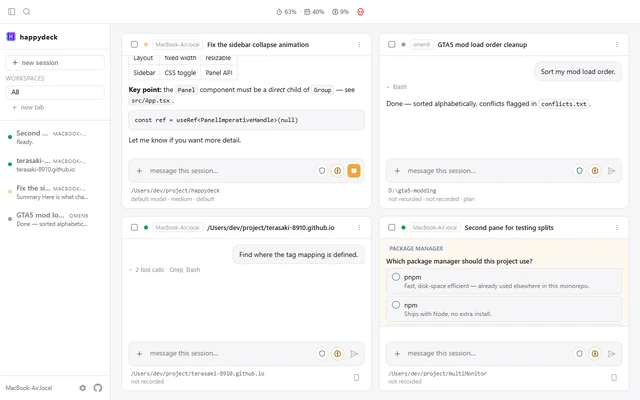
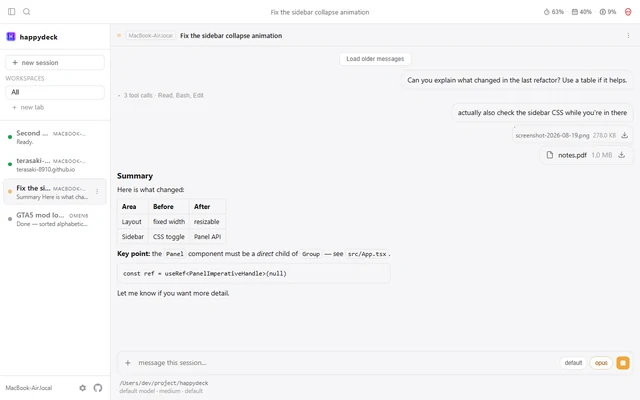
feat(career): 15回目の答えを入れる(画像はAに決定・押すと大きく見られる・並べ方は2案、見出し、期間の文字は黒で縦線はピンク、トップの文章も黒、「奢」は Klee One)
- 画像の見せ方は A(ブロックの影)に決め、B・C を外した。押すと大きく出し、外側・Esc・× で閉じる(カーソルは虫眼鏡)。
- 1作品に何枚でも置けるように shots(配列)にした。並べ方は /career/?layout=side で右の列に積む案を見比べられる。
- happydeck の画像は、1つのセッションを大きく出した画面にした(14回目 R14-33)。
- 見出しを「取り組んでいる研究」にした(R15-3)。期間の文字は黒、縦線はピンク(R15-7)。トップの文章も黒(R15-6)。
- 「奢」だけ Klee One の字を使う(R15-8)。用語の吹き出しは、語から吹き出しへマウスを移しても閉じない。リンクも出せる。
- 14回目で決まった Python・SPARQL の説明を入れた(R14-14・R14-15)。

Claude-Session: https://claude.ai/code/session_01YNehZWCWdDkW7M1R4WgCfg

diff --git a/src/CareerPage.jsx b/src/CareerPage.jsx
@@ -1,4 +1,4 @@
-import { useEffect, useState } from 'react'
+import { useCallback, useEffect, useRef, useState } from 'react'
 import ProjectMenu from './components/ProjectMenu'
 import { annotate } from './components/career/Term'
 import './components/career/career.css'
@@ -77,11 +77,12 @@ function Section({ title, children }) {
   )
 }
 
-// トップの学歴・経歴と同じ部品(ピンクの等幅の期間、見出し、説明、左の縦線)
+// トップの学歴・経歴と同じ部品(等幅の期間、見出し、説明、左の縦線)。
+// 期間の文字は黒、縦線はピンク(確認シート15回目 R15-7。ピンクの文字は黄色の地で読みにくいため)
 function Entry({ label, title, children }) {
   return (
-    <div className="relative pl-6 border-l border-line">
-      {label && <div className="text-sm font-mono text-accent">{label}</div>}
+    <div className="relative pl-6 border-l-2 border-accent">
+      {label && <div className="text-sm font-mono text-ink">{label}</div>}
       <h3 className="text-xl font-display text-ink mt-2">{title}</h3>
       {children}
     </div>
@@ -109,11 +110,42 @@ function WorkFact({ term, children }) {
   )
 }
 
-// プロジェクトの画像の見せ方(3案の見本)。/career/?frame=mat のように切り替えて見比べる。決まったら1つにする
-const FRAMES = ['block', 'mat', 'soft']
-function frameFromUrl() {
-  const asked = new URLSearchParams(window.location.search).get('frame')
-  return FRAMES.includes(asked) ? asked : FRAMES[0]
+// プロジェクトの画像の並べ方(2案の見本)。/career/?layout=side で切り替えて見比べる。決まったら1つにする
+const LAYOUTS = ['stack', 'side']
+function layoutFromUrl() {
+  const asked = new URLSearchParams(window.location.search).get('layout')
+  return LAYOUTS.includes(asked) ? asked : LAYOUTS[0]
+}
+
+// 画像を大きく見る。外側・Esc・× で閉じ、閉じたら押した画像にフォーカスを戻す。開いている間は後ろをスクロールしない
+function ShotViewer({ shot, onClose }) {
+  const closeRef = useRef(null)
+  useEffect(() => {
+    if (!shot) return undefined
+    const before = document.activeElement
+    const html = document.documentElement
+    const overflow = html.style.overflow
+    html.style.overflow = 'hidden'
+    closeRef.current?.focus()
+    const onKey = (event) => {
+      if (event.key === 'Escape') onClose()
+    }
+    document.addEventListener('keydown', onKey)
+    return () => {
+      document.removeEventListener('keydown', onKey)
+      html.style.overflow = overflow
+      before?.focus?.()
+    }
+  }, [shot, onClose])
+  if (!shot) return null
+  return (
+    <div className="shot-viewer" role="dialog" aria-modal="true" aria-label={shot.alt} onClick={onClose}>
+      <img src={shot.full || shot.src} alt={shot.alt} onClick={(event) => event.stopPropagation()} />
+      <button ref={closeRef} type="button" className="shot-viewer__close" aria-label="閉じる" onClick={onClose}>
+        ×
+      </button>
+    </div>
+  )
 }
 
 export default function CareerPage() {
@@ -126,7 +158,9 @@ export default function CareerPage() {
     ...level,
     items: skills.filter((skill) => skill.group === 'other' && skill.level === level.id),
   })).filter((level) => level.items.length > 0)
-  const frame = frameFromUrl()
+  const layout = layoutFromUrl()
+  const [viewing, setViewing] = useState(null)
+  const closeViewer = useCallback(() => setViewing(null), [])
   return (
     <>
       <div className="fixed top-0 left-0 right-0 z-50">
@@ -180,7 +214,7 @@ export default function CareerPage() {
             </div>
           </Section>
 
-          <Section title="研究">
+          <Section title="取り組んでいる研究">
             <p className="text-lg text-ink leading-relaxed">{annotate(research.summary, seenResearch)}</p>
             <div className="space-y-6 mt-10">
               {research.talks.map((talk) => (
@@ -227,9 +261,10 @@ export default function CareerPage() {
           </Section>
 
           <Section title="プロジェクト">
-            <div className="works space-y-12" data-frame={frame}>
+            <div className="works space-y-12" data-layout={layout}>
               {works.map((work) => (
-                <article key={work.repo} className="relative pl-6 border-l border-line">
+                <article key={work.repo} className="work relative pl-6 border-l border-line">
+                  <div className="work__head">
                   <h3 className="text-xl font-display text-ink">
                     <a
                       href={GITHUB + work.repo}
@@ -241,12 +276,17 @@ export default function CareerPage() {
                     </a>
                   </h3>
                   <p className="mt-1 text-xs font-mono text-muted">github.com/terasaki-8910/{work.repo}</p>
-                  {work.shot && (
-                    <div className="work-shot">
-                      <img src={work.shot.src} width={work.shot.width} height={work.shot.height} alt={work.shot.alt} loading="lazy" decoding="async" />
+                  </div>
+                  {work.shots?.length > 0 && (
+                    <div className="work-shots">
+                      {work.shots.map((shot) => (
+                        <button key={shot.src} type="button" className="work-shot" aria-label={`${shot.alt}を大きく見る`} onClick={() => setViewing(shot)}>
+                          <img src={shot.src} width={shot.width} height={shot.height} alt={shot.alt} loading="lazy" decoding="async" />
+                        </button>
+                      ))}
                     </div>
                   )}
-                  <dl className="mt-4 grid gap-x-6 gap-y-3 sm:grid-cols-[6.5em_minmax(0,1fr)]">
+                  <dl className="work__facts mt-4 grid gap-x-6 gap-y-3 sm:grid-cols-[6.5em_minmax(0,1fr)]">
                     <WorkFact term="概要">{work.summary}</WorkFact>
                     {work.background && <WorkFact term="作った経緯">{work.background}</WorkFact>}
                     <WorkFact term="担当">{work.role}</WorkFact>
@@ -275,6 +315,7 @@ export default function CareerPage() {
           )}
         </div>
       </main>
+      <ShotViewer shot={viewing} onClose={closeViewer} />
     </>
   )
 }

diff --git a/src/components/career/career.css b/src/components/career/career.css
@@ -18,20 +18,47 @@
   font-size: 14px; line-height: 1.6; text-align: left; white-space: normal; overflow-wrap: anywhere;
   box-shadow: 0 6px 18px rgb(0 0 0 / 0.18);
 }
+.term__note::before { content: ''; position: absolute; left: 0; right: 0; top: -10px; height: 10px; }
+.term__link { display: block; margin-top: 4px; color: var(--color-paper); text-decoration: underline; text-underline-offset: 3px; overflow-wrap: anywhere; }
+.term__link:focus-visible { outline: 2px solid var(--color-paper); outline-offset: 2px; }
 
 /* プロジェクトの画面のスクショ。どれも同じ高さにそろえ、幅は画像の縦横比に任せる。
-   見せ方は3案(data-frame)。見本では /career/?frame=block|mat|soft で切り替えられる */
+   見せ方は A(ブロックの影)に決めた(確認シート15回目 R15-1)。黒い枠とピンクのずらした影(ぼかさない)で、
+   ロゴ(ピンクに黒の縁)と背景のマスに合わせる。押すと大きく出す(R15-2。カーソルは虫眼鏡)。
+   並べ方は2案(data-layout)。stack = 題の下に横に並べる、side = PC では右の列に縦に積み、左に説明を置く。
+   見本では /career/?layout=side で切り替えられる(決まったら1つにする) */
 .works { --shot-h: 180px; --shot-mat: rgb(255 255 255 / 0.55); }
 :root[data-theme='dark'] .works { --shot-mat: rgb(255 255 255 / 0.06); }
 @media (max-width: 639px) { .works { --shot-h: 140px; } }
-.work-shot { display: inline-block; margin-top: 1rem; line-height: 0; }
+.work-shots { display: flex; flex-wrap: wrap; gap: 16px; margin-top: 1rem; }
+.work-shot {
+  display: inline-block; line-height: 0; cursor: zoom-in; font: inherit; color: inherit;
+  padding: 8px; background: var(--shot-mat); border: 1.5px solid var(--color-ink); border-radius: 3px;
+  box-shadow: 6px 6px 0 rgb(var(--color-accent));
+}
+.work-shot:focus-visible { outline: 2px solid var(--color-ink); outline-offset: 4px; }
 .work-shot img { display: block; height: var(--shot-h); width: auto; max-width: 100%; object-fit: contain; }
-/* A: ブロックの影。黒い枠とピンクのずらした影(ぼかさない)。ロゴ(ピンクに黒の縁)と背景のマスに合わせる */
-.works[data-frame='block'] .work-shot { padding: 8px; background: var(--shot-mat); border: 1.5px solid var(--color-ink); border-radius: 3px; box-shadow: 6px 6px 0 rgb(var(--color-accent)); }
-/* B: 台紙。うすい白の台に細い線の枠。影は付けない */
-.works[data-frame='mat'] .work-shot { padding: 10px; background: var(--shot-mat); border: 1px solid var(--color-line); border-radius: 4px; }
-/* C: やわらかい影。枠を付けず、画面の下にぼかした影だけを落とす */
-.works[data-frame='soft'] .work-shot img { border-radius: 6px; box-shadow: 0 10px 24px rgb(0 0 0 / 0.18), 0 2px 6px rgb(0 0 0 / 0.08); }
+@media (min-width: 768px) {
+  .works[data-layout='side'] { --shot-h: 150px; }
+  .works[data-layout='side'] .work { display: grid; grid-template-columns: minmax(0, 1fr) auto; column-gap: 28px; }
+  .works[data-layout='side'] .work__head { grid-column: 1 / -1; }
+  .works[data-layout='side'] .work-shots { grid-column: 2; grid-row: 2; flex-direction: column; align-items: flex-end; align-self: start; margin-top: 1rem; }
+  .works[data-layout='side'] .work__facts { grid-column: 1; grid-row: 2; }
+}
+
+/* 画像を大きく見る(外側・Esc・× で閉じる) */
+.shot-viewer {
+  position: fixed; inset: 0; z-index: 100; display: grid; place-items: center;
+  padding: calc(64px + env(safe-area-inset-top, 0px)) 16px calc(24px + env(safe-area-inset-bottom, 0px));
+  background: rgb(0 0 0 / 0.72); cursor: zoom-out;
+}
+.shot-viewer img { max-width: min(1280px, 100%); max-height: 100%; width: auto; height: auto; border-radius: 4px; cursor: default; box-shadow: 0 12px 40px rgb(0 0 0 / 0.4); }
+.shot-viewer__close {
+  position: fixed; top: calc(12px + env(safe-area-inset-top, 0px)); right: 12px; width: 44px; height: 44px;
+  display: grid; place-items: center; border-radius: 50%; cursor: pointer; font-size: 22px; line-height: 1;
+  background: var(--color-paper); color: var(--color-ink); border: 1.5px solid var(--color-ink);
+}
+.shot-viewer__close:focus-visible { outline: 2px solid var(--color-paper); outline-offset: 2px; }
 
 /* 名前の読み仮名 */
 .name-ruby { ruby-align: center; }

diff --git a/src/data/works.js b/src/data/works.js
@@ -1,6 +1,7 @@
 // /career/ の Works。文言は decisions(タスク 5「Works の文言」)のとおり。
 // points は decisions の「工夫」を「／」で区切ったもの(ページでは1つずつ別の行にする)。
-// shot: 実際に動いている画面のスクショ(public/career/works/)。ページではどれも同じ高さにそろえる。
+// shots: 実際に動いている画面のスクショ(public/career/works/)。何枚でも置ける。ページではどれも同じ高さにそろえ、
+// 押すと full を大きく出す(確認シート15回目 R15-2)。
 // このサイトは画面を載せても意味が無いので、画像なし(確認シート14回目)。
 // background(作った経緯)と learned(学び)は本人が書く。空なら行を出さない。
 // role の書き方(Claude Code を使ったこと)は下書き(確認シート14回目)。
@@ -22,7 +23,8 @@ export const works = [
     repo: 'happydeck',
     summary: '複数のマシンで動いている Claude Code のセッションを、1つの画面で見て操作するデスクトップアプリ（Happy 経由）',
     role: '個人で設計・実装（Claude Code を使用）',
-    shot: { src: '/career/works/happydeck.webp', width: 640, height: 400, alt: 'happydeck の画面（モックデータで、複数のマシンのセッションを並べたところ）' },
+    // 1つのセッションを大きく出した画面(確認シート14回目 R14-33)
+    shots: [{ src: '/career/works/happydeck.webp', full: '/career/works/happydeck-full.webp', width: 640, height: 400, alt: 'happydeck の画面（モックデータで、1つのセッションを大きく出したところ）' }],
     background: '',
     learned: '',
     tech: 'TypeScript, React 19, Vite, Tauri v2, Zod, Vitest, GitHub Actions',
@@ -36,7 +38,7 @@ export const works = [
     repo: 'voice-transcript',
     summary: 'Groq の Whisper API で音声を文字起こしする、CLI とデスクトップアプリ',
     role: '個人で設計・実装（Claude Code を使用）',
-    shot: { src: '/career/works/voice-transcript.webp', width: 601, height: 400, alt: 'voice-transcript の履歴の画面' },
+    shots: [{ src: '/career/works/voice-transcript.webp', full: '/career/works/voice-transcript-full.webp', width: 601, height: 400, alt: 'voice-transcript の履歴の画面' }],
     background: '',
     learned: '',
     tech: 'TypeScript, React 19, Vite, Tauri v2, PostgreSQL, Drizzle ORM, ffmpeg, Vitest',
@@ -50,7 +52,7 @@ export const works = [
     repo: 'claude-usage-tray',
     summary: 'Claude の使用量（5時間のセッション枠と週の枠）を、タスクトレイとメニューバーに常に表示するデスクトップアプリ',
     role: '個人で設計・実装・配布（Windows / macOS。Claude Code を使用）',
-    shot: { src: '/career/works/claude-usage-tray.webp', width: 304, height: 367, alt: 'UsageTray のポップアップ（使用量の表示）' },
+    shots: [{ src: '/career/works/claude-usage-tray.webp', full: '/career/works/claude-usage-tray-full.webp', width: 304, height: 367, alt: 'UsageTray のポップアップ（使用量の表示）' }],
     background: '',
     learned: '',
     tech: 'TypeScript, Electron, electron-vite, Preact, node-pty, Vitest, GitHub Actions',

diff --git a/src/components/career/Term.jsx b/src/components/career/Term.jsx
@@ -11,7 +11,7 @@ const canHover = () => typeof window !== 'undefined' && window.matchMedia && win
  * 語は span(role="button")にして、英語の語も文の中でふつうに折り返せるようにする(button だと折り返さない)。
  * 吹き出しは語の終わり(アイコンの下)に付け、画面の端からはみ出す分だけ横にずらす。
  */
-export default function Term({ children, note }) {
+export default function Term({ children, note, link }) {
   const [open, setOpen] = useState(false)
   const [shift, setShift] = useState(0)
   const id = useId()
@@ -19,6 +19,8 @@ export default function Term({ children, note }) {
   const noteRef = useRef(null)
   const hoverRef = useRef(false)
   const pinnedRef = useRef(false)
+  // マウスが語から吹き出しへ移る間に閉じないよう、閉じるのを少し待つ
+  const leaveTimer = useRef(0)
 
   const close = () => {
     pinnedRef.current = false
@@ -62,12 +64,16 @@ export default function Term({ children, note }) {
       className="term"
       onMouseEnter={() => {
         if (!canHover()) return
+        window.clearTimeout(leaveTimer.current)
         hoverRef.current = true
         setOpen(true)
       }}
       onMouseLeave={() => {
         hoverRef.current = false
-        if (!pinnedRef.current) setOpen(false)
+        window.clearTimeout(leaveTimer.current)
+        leaveTimer.current = window.setTimeout(() => {
+          if (!pinnedRef.current && !hoverRef.current) setOpen(false)
+        }, 150)
       }}
     >
       <span
@@ -95,6 +101,11 @@ export default function Term({ children, note }) {
         {open && (
           <span ref={noteRef} id={id} role="tooltip" className="term__note" style={shift ? { transform: `translateX(${shift}px)` } : undefined}>
             {note}
+            {link && (
+              <a className="term__link" href={link} target="_blank" rel="noopener noreferrer">
+                {new URL(link).host}
+              </a>
+            )}
           </span>
         )}
       </span>
@@ -121,7 +132,7 @@ export function annotate(text, seen) {
     if (!best) break
     parts.push(rest.slice(0, best.at))
     parts.push(
-      <Term key={best.entry.id} note={best.entry.note}>
+      <Term key={best.entry.id} note={best.entry.note} link={best.entry.link}>
         {best.word}
       </Term>,
     )

diff --git a/src/components/Profile.jsx b/src/components/Profile.jsx
@@ -95,7 +95,7 @@ export default function Profile() {
               {mainSkills.map((skill, index) => (
                 <div key={skill.name} ref={(el) => (listItemsRef.current[index] = el)} className="border-b border-line py-4">
                   <h4 className="text-xl font-display text-ink">{skill.name}</h4>
-                  <p className="text-muted leading-relaxed mt-1">{skill.text}</p>
+                  <p className="text-ink leading-relaxed mt-1">{skill.text}</p>
                 </div>
               ))}
             </div>
@@ -123,11 +123,11 @@ export default function Profile() {
                 <div
                   key={item.year}
                   ref={(el) => (itemsRef.current[index] = el)}
-                  className="relative pl-6 border-l border-line"
+                  className="relative pl-6 border-l-2 border-accent"
                 >
-                  <div className="text-sm font-mono text-accent">{item.year}</div>
+                  <div className="text-sm font-mono text-ink">{item.year}</div>
                   <h4 className="text-xl font-display text-ink mt-2">{item.title}</h4>
-                  <p className="text-muted leading-relaxed mt-1">{item.description}</p>
+                  <p className="text-ink leading-relaxed mt-1">{item.description}</p>
                 </div>
               ))}
             </div>
@@ -142,11 +142,11 @@ export default function Profile() {
               <div
                 key={talk.title}
                 ref={(el) => (listItemsRef.current[mainSkills.length + 1 + index] = el)}
-                className="relative pl-6 border-l border-line"
+                className="relative pl-6 border-l-2 border-accent"
               >
-                <div className="text-sm font-mono text-accent">{talk.date}</div>
+                <div className="text-sm font-mono text-ink">{talk.date}</div>
                 <h4 className="text-xl font-display text-ink mt-2">{talk.title}</h4>
-                <p className="text-muted leading-relaxed mt-1">
+                <p className="text-sm text-ink leading-relaxed mt-2">
                   {talk.authors} ／ {talk.venue}
                 </p>
               </div>

diff --git a/src/data/skills.js b/src/data/skills.js
@@ -18,14 +18,16 @@ export const skills = [
     period: '2022~',
     group: 'main',
     careerOrder: 2,
-    text: '研究の可視化・データ処理、授業での機械学習、FlaskによるWebアプリの構築など',
+    // 確認シート14回目 R14-14 で決まった文面
+    text: '研究の可視化・データ処理、文字列処理、授業での機械学習、FlaskによるWebアプリの構築など',
   },
   {
     name: 'SPARQL / RDF / Linked Open Data',
     period: '2025~',
     group: 'main',
     careerOrder: 1,
-    text: '卒研では、異種 LOD 間で SPARQL クエリを再利用する研究で、実行はできても結果が0件になるクエリを、緩和によって回復する手法を用いた。現在はデータセットごとに異なるスキーマをもつLODにおいてクエリの用例を示すことでユーザへの利活用支援を試みている。',
+    // 確認シート14回目 R14-15 で決まった文面
+    text: '卒業研究では、異なる LOD の間で SPARQL クエリを使い回すため、実行はできても結果が0件になるクエリを、条件をゆるめるクエリ緩和で回復する手法を検討した。現在は、データセットごとにスキーマが異なる LOD で、クエリの例を示して使い始めを助ける方法を研究している。',
   },
   {
     name: 'Linuxサーバ運用',

diff --git a/src/data/glossary.js b/src/data/glossary.js
@@ -1,6 +1,6 @@
 // /career/ の専門用語の説明(吹き出し)。words のどれかが本文に出たら、ページで最初の1か所だけに付ける。
 // 長い語から先に探す(「Linked Open Data」が先に当たれば、後の「LOD」には付けない)。
-// 説明は下書き(確認シート14回目で本人に確かめる)。
+// 説明は下書き(確認シート16回目で本人に確かめる)。link があれば、説明の下にリンクを出す。
 export const glossary = [
   {
     id: 'lod',
@@ -21,5 +21,11 @@ export const glossary = [
     id: 'relaxation',
     words: ['クエリ緩和'],
     note: '結果が0件になった問い合わせの条件を少しずつゆるめて、答えが返るようにする手法。',
+  },
+  {
+    id: 'mdlab',
+    words: ['メタデータ研究室'],
+    note: '所属している研究室。',
+    link: 'https://mdlab.slis.tsukuba.ac.jp/',
   },
 ]

diff --git a/src/index.css b/src/index.css
@@ -57,6 +57,19 @@
   font-display: swap;
 }
 
+/* 「奢」だけ Klee One(Google Fonts, SIL OFL)の字を使う。Zen Kurenaido の「奢」は下の「者」が
+   詰まって崩れて見えるため(推しア◯ネイターの「華奢」。2026-10-06 本人指定)。
+   同じ名前で unicode-range を絞った面を後に書くと、その字ではこちらが先に使われる。
+   1字だけのサブセット: python3 -m fontTools.subset KleeOne-Regular.ttf --unicodes=U+5962 --flavor=woff2 */
+@font-face {
+  font-family: 'Zen Kurenaido';
+  src: url('/fonts/kasha-klee-one.woff2') format('woff2');
+  font-weight: 400;
+  font-style: normal;
+  font-display: swap;
+  unicode-range: U+5962;
+}
+
 :root {
   /* Alicemerix「Override」ジャケットの背景色(R249 G236 B142)。
      mutedはこの背景に対してWCAG AA(4.5:1)をわずかに割り込むため
